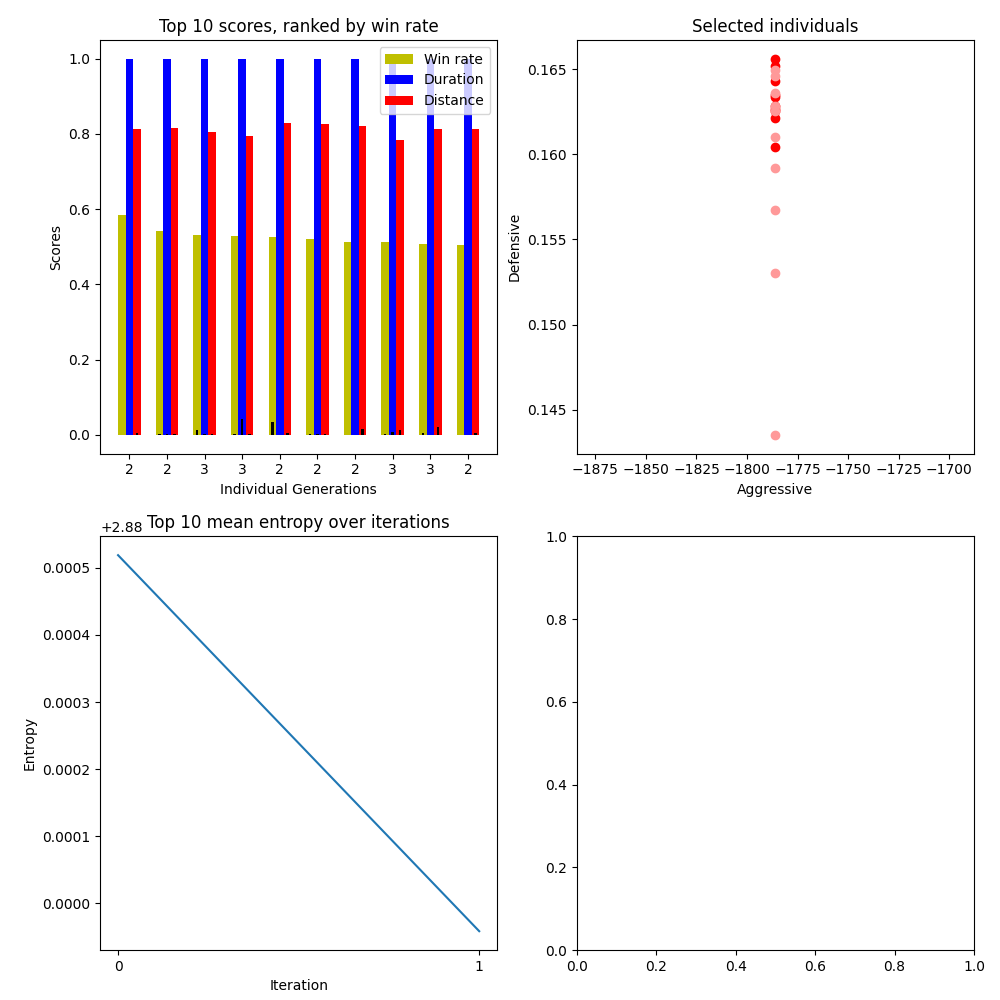
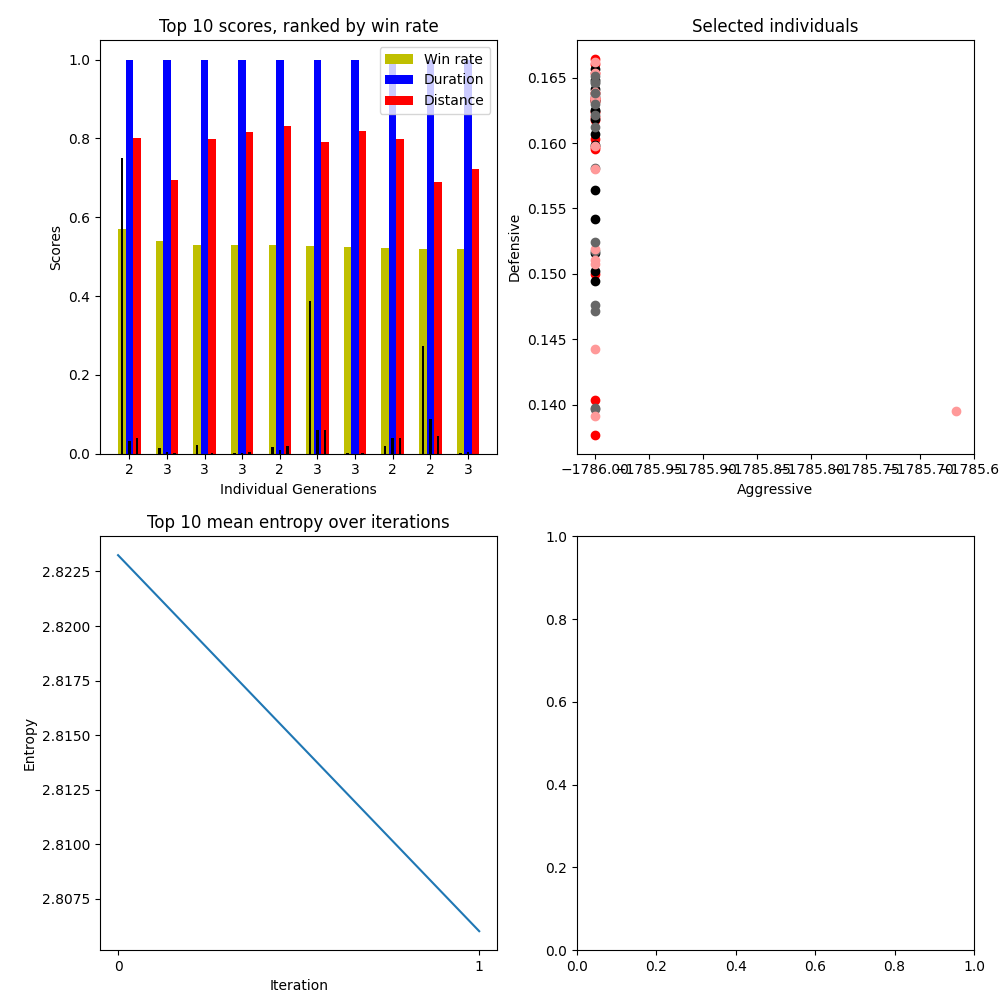
3-18

diff --git a/evolution_server.py b/evolution_server.py
@@ -203,6 +203,7 @@ class EvolutionServer:
                 r['game_reward'] += reward2
                 if reward2 < 0:
                     r['total_punition'] += reward2
+
                 r['mean_distance'] += self.util.distance(observation_)
                 r['win_rate'] += int(self.util.win(done, observation_) > 0)
                 '''
@@ -220,7 +221,7 @@ class EvolutionServer:
 
         print(actions)
         r['avg_length'] = frame_count / float(n_games)
-        r['win_rate'] = (np.abs(r['game_reward'] - r['total_punition'])) / float(np.abs(r['game_reward'] - 2 * r['total_punition']))
+        r['win_rate'] = r['win_rate'] / float(n_games)  #(np.abs(r['game_reward'] - r['total_punition'])) / float(np.abs(r['game_reward'] - 2 * r['total_punition']))
         #  r['no_op_rate'] = r['no_op_rate'] / float(frame_count)
         #  r['move_rate'] = r['move_rate'] / float(frame_count)
         r['mean_distance'] = r['mean_distance'] / float(frame_count)

diff --git a/env_utils.py b/env_utils.py
@@ -54,7 +54,7 @@ class Boxing(dict):
 
         self.indexes = np.array([value for value in self.values()], dtype=np.int32)
         self.centers = np.array([127, 127, 127, 127, 0, 0, 0], dtype=np.float32)
-        self.scales = np.array([0.005, 0.005, 0.005, 0.005, 0.01, 0.01, 0.005], dtype=np.float32)
+        self.scales = np.array([0.005, 0.005, 0.005, 0.005, 0.01, 0.01, 0.01], dtype=np.float32)
         self.state_dim = len(self.indexes)
 
         self['objectives'] = ['win_rate', 'avg_length', 'mean_distance']
@@ -75,7 +75,7 @@ class Boxing(dict):
     def win(self, done, obs):
         if done:
             d = obs[4] - obs[5]
-            if d > 0:
+            if d > 50 or (d > 0 and obs[-1] > 1e-4):
                 return 1
             elif d < 0:
                 return -1
